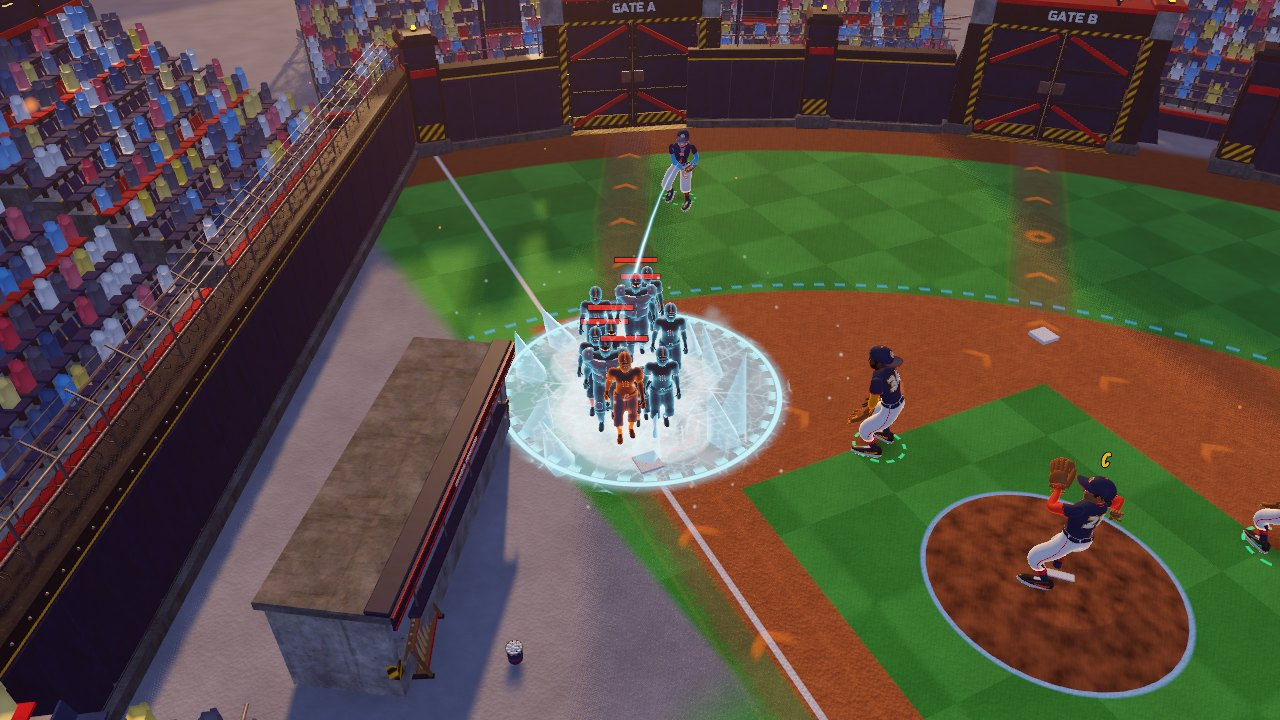
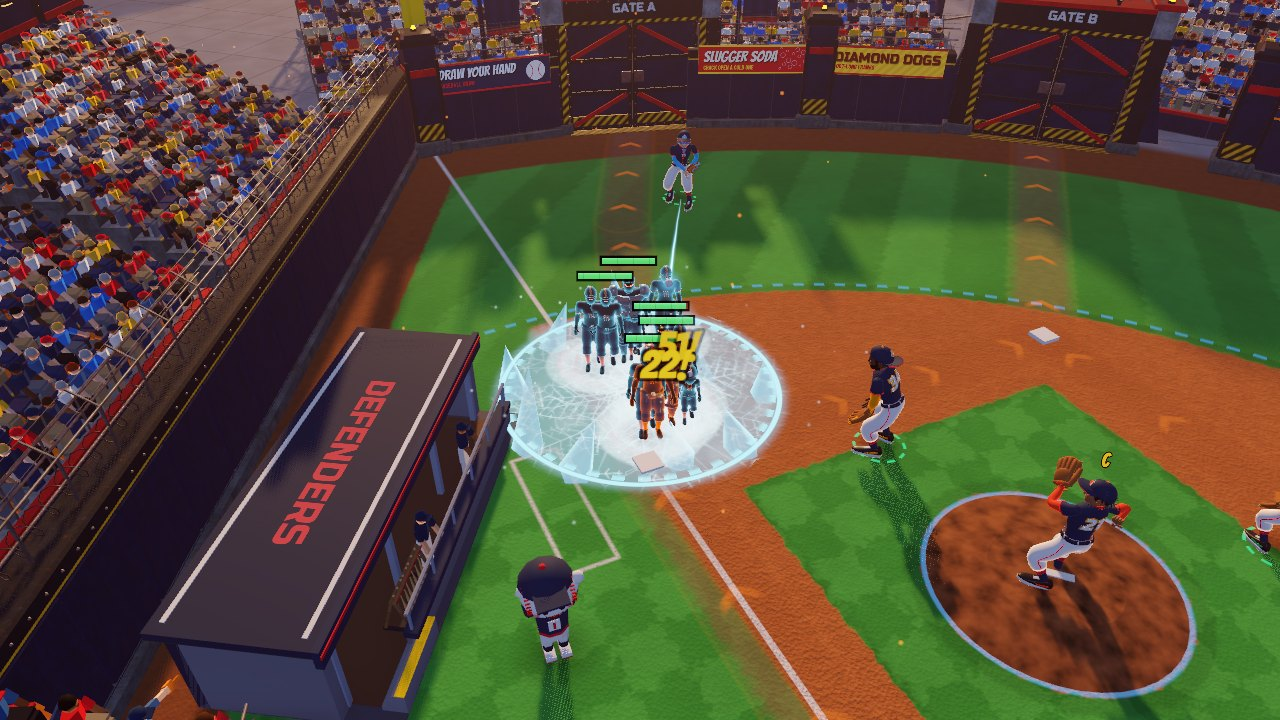
Update 5: final screenshots, before/after comparison, report [build]
Claude-Session: https://claude.ai/code/session_0152sgq3BPmEUFHQx2kFxsiy

diff --git a/docs/DEVELOPMENT_REPORT.md b/docs/DEVELOPMENT_REPORT.md
@@ -462,3 +462,29 @@ Plan: `docs/plans/UPDATE_5_PLAN.md`. Scored review findings for each area are in
 **Tech**
 * Leaks at exit cut from 84 to about 22 objects; an orphan HUD label is now freed.
 * Per-frame battle-loop cost is about 1 ms (CPU) in a boss wave at 3x speed.
+
+**Verification**
+* Script check: 76 scripts, 0 failed.
+* System test suite: 1,261–1,283 checks (a few battle checks depend on the run), 0 failed.
+* Full UI flow test on the merged game: 127 checks, 0 failed. It covers battle, tutorial, dugout, packs, bundles
+  and multi-open, Cards & Deck, Upgrade Cards and the Daily Challenge.
+* Card hit map: 0 of 175 dead points, 0 dropped fast clicks.
+* Autopilot balance after the final tuning (small samples):
+
+  | Mode | Difficulty | Result |
+  |---|---|---|
+  | Quick Defense | Rookie | 3 of 3 |
+  | Quick Defense | Standard | 2–3 of 4 with cards, about 1 of 4 without cards |
+  | Quick Defense | Veteran | 2 of 3 |
+  | Standard Siege | Standard | 0 of 2 (one reached the final boss in inning 9) |
+
+  The autopilot spams cards and never saves them for bosses, so human results should be better. Standard
+  Siege may still be on the hard side; the multipliers are in `data/difficulties.json`.
+* Before/after comparison: `docs/screenshots/update5_before_after.jpg`.
+
+**Known limitations**
+* Frame rates were not measured on a real GPU. The crowd (about 0.43 M triangles on High) and the live jumbotron
+  feed are the new costs; both scale with the quality preset.
+* The graphics benchmark could not be checked for real numbers here.
+* Audio was checked by measurement, not by listening.
+* The Windows smoke test runs in CI on the first `[build]` after this update; it has not run before.

diff --git a/README.md b/README.md
@@ -14,7 +14,7 @@ and play ability cards to stop waves of rival runners — and their bosses — f
 | ![Pack reveal](docs/screenshots/packs_reveal.jpg) | ![Grand Slam Barrage](docs/screenshots/vfx_grand_slam_barrage.jpg) |
 | ![Deck builder](docs/screenshots/deck_builder.jpg) | ![Guided first game](docs/screenshots/tutorial.jpg) |
 
-All screenshots are rendered by the game itself (`tools/capture_screenshots.sh`); more in `docs/screenshots/`.
+What Update 5 changed: [before/after](docs/screenshots/update5_before_after.jpg). All screenshots are rendered by the game itself (`tools/capture_screenshots.sh`); more in `docs/screenshots/`.
 
 ## Features
 
